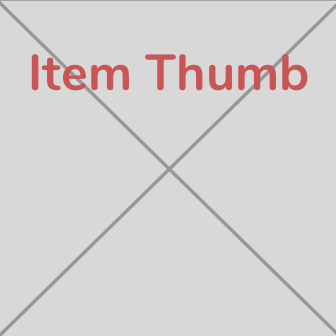
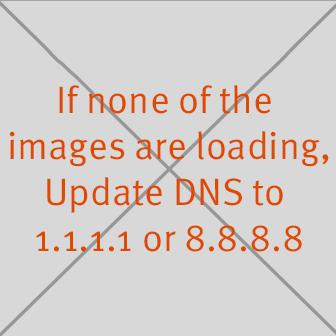
Update

diff --git a/functions/views/js/fdb.js b/functions/views/js/fdb.js
@@ -142,6 +142,10 @@ updateImgs();
 function purchaseItem() {
 	const purchaseBtn = document.getElementById('remember-to-add-auth-verificartion-to-js-handler')
 	if (purchaseBtn.innerHTML == "Buy!") {
+		purchaseBtn.setAttribute("style", "background: #ff813d; width:300px;")
+		purchaseBtn.innerHTML = "Confirm?"
+	}
+	else if (purchaseBtn.innerHTML == "Confirm?") {
 		if (firebase.auth().currentUser) {
 			firebase.auth().currentUser.getIdToken().then(function(idToken) {
 				var item_id_element = document.getElementById("productID")
@@ -163,7 +167,7 @@ function purchaseItem() {
 				.then(function(result){
 					console.log(result)
 					if (result.success == true) {
-						purchaseBtn.setAttribute("style", "background: #00DD00; width:500px;")
+						purchaseBtn.setAttribute("style", "background: #00DD00; width:500px; transition: 0.7s;")
 						purchaseBtn.innerHTML = "Item Purchased, Congratulations!"
 					}
 					else {
